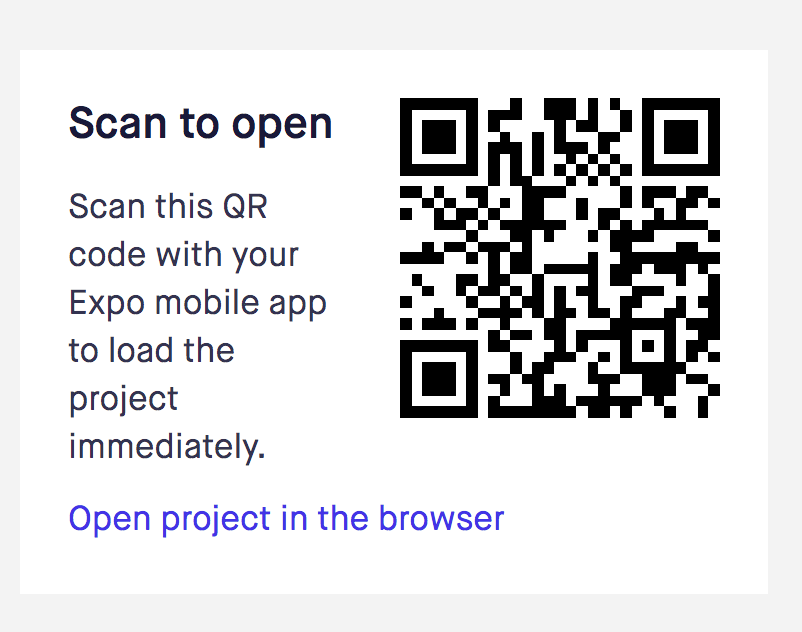
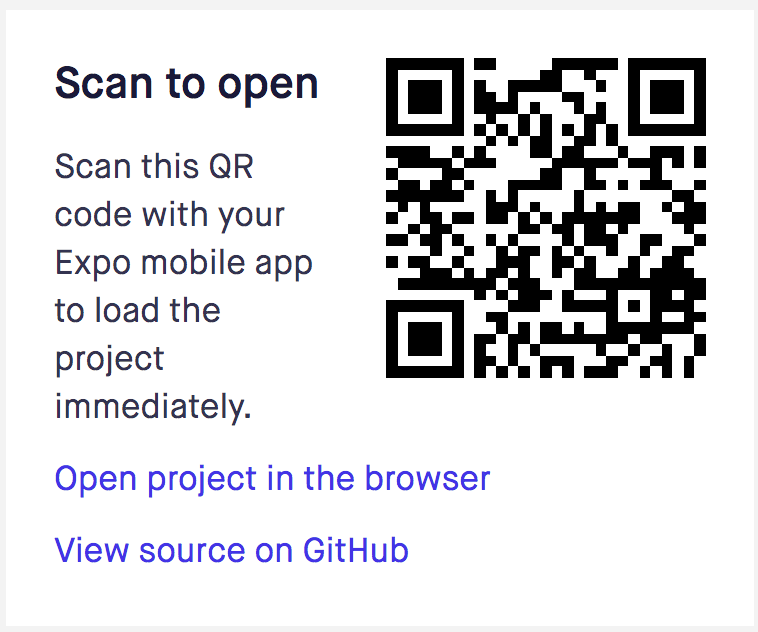
Added Changes

diff --git a/README.md b/README.md
@@ -17,7 +17,7 @@ calls them **_Quests_**.
    Are App is located in Expo's Published Projects Area on __https://expo.io/@adkahane/fitquest__. You can connect to to it by
 downloading Expo Client on your Android or iOS device. Then Scan Our QR Code which will looks like this below.
 
-![QR Code ](/README_IMAGES/QR_code.gif)
+![QR Code ](/README_IMAGES/QR_Code.png)
 
 
 ## Technologies Used
